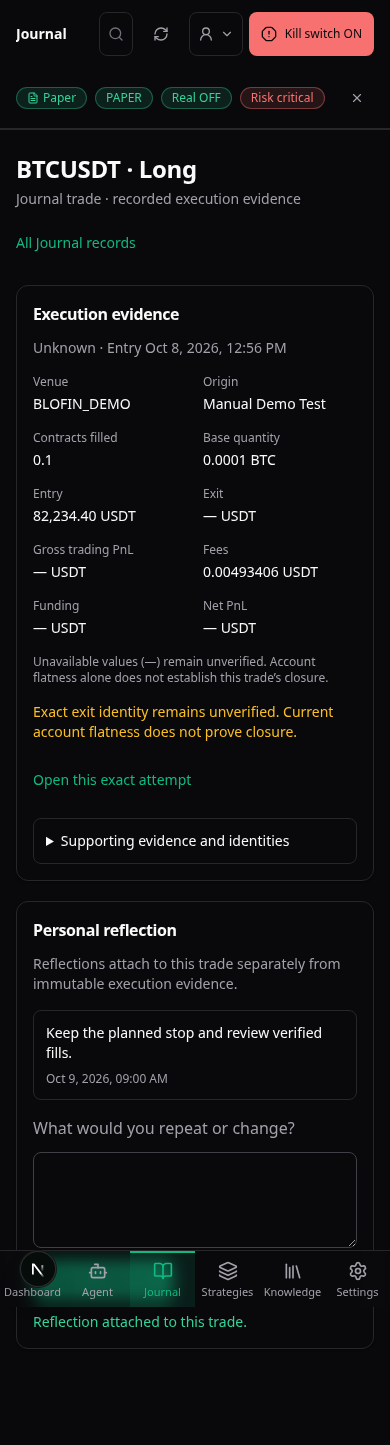
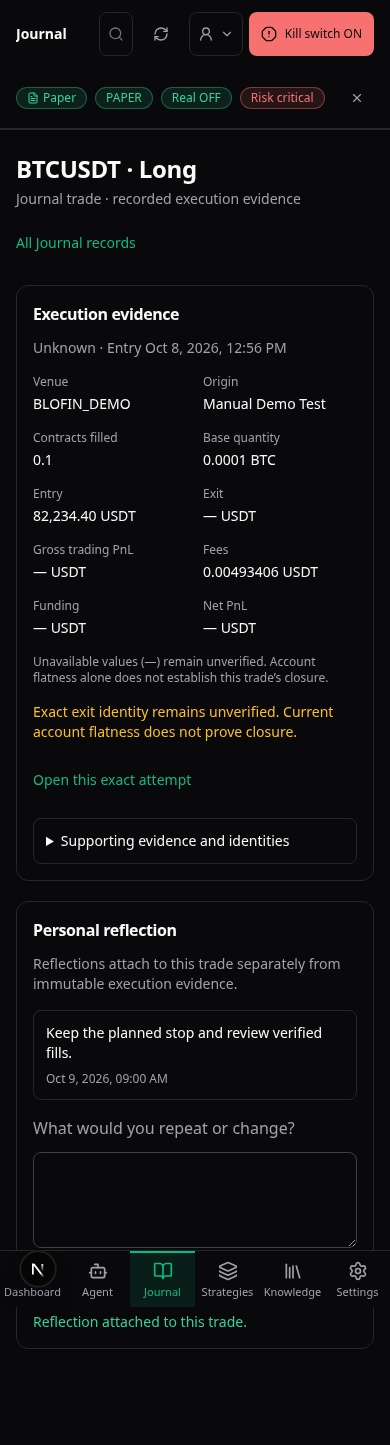
Align baseline gate fixtures and preserve tiny amounts and mobile highlighting

Changed region(s): [[0.0923, 0.8408, 0.4615, 0.9031]]

diff --git a/frontend/src/components/layout/MobileBottomNavigation.tsx b/frontend/src/components/layout/MobileBottomNavigation.tsx
@@ -18,7 +18,7 @@ export function MobileBottomNavigation() {
       aria-label="Primary mobile"
       data-testid="mobile-bottom-navigation"
       className={cn(
-        "fixed inset-x-0 bottom-0 z-50 border-t border-border-subtle bg-surface-0/95 backdrop-blur",
+        "fixed inset-x-0 bottom-0 z-50 border-t border-border-subtle bg-surface-0",
         "pb-[env(safe-area-inset-bottom,0px)] lg:hidden",
       )}
     >

diff --git a/backend/tests/test_release_wave002_migrations.py b/backend/tests/test_release_wave002_migrations.py
@@ -34,7 +34,10 @@ def test_accepted_branch_upgrade_merge_downgrade_reupgrade(source_head: str) -> 
                 )
         command.upgrade(config, "head")
         with engine.connect() as conn:
-            assert conn.scalar(text("SELECT version_num FROM alembic_version")) == "a6manualdemo001"
+            assert (
+                conn.scalar(text("SELECT version_num FROM alembic_version"))
+                == "a7manualrecovery001"
+            )
             assert "public_market_observations" in inspect(conn).get_table_names()
             assert "telegram_policy" in {
                 column["name"]
@@ -68,6 +71,9 @@ def test_accepted_branch_upgrade_merge_downgrade_reupgrade(source_head: str) -> 
             }
         command.upgrade(config, "head")
         with engine.connect() as conn:
-            assert conn.scalar(text("SELECT version_num FROM alembic_version")) == "a6manualdemo001"
+            assert (
+                conn.scalar(text("SELECT version_num FROM alembic_version"))
+                == "a7manualrecovery001"
+            )
     finally:
         engine.dispose()

diff --git a/backend/tests/test_phase2_4_alembic_postgres.py b/backend/tests/test_phase2_4_alembic_postgres.py
@@ -41,7 +41,7 @@ WATCHER_TENANT_WATCHLIST = "b6f2d9a10e73"
 STRATEGY_BRAIN = "a1brain001"
 TELEGRAM_POLICY_V2 = "a2tgpolicy002"
 RELEASE_WAVE002 = "a3release002"
-CURRENT_HEAD = "a6manualdemo001"
+CURRENT_HEAD = "a7manualrecovery001"
 
 _NEW_TABLES = (
     "watcher_worker_leases",
@@ -195,7 +195,8 @@ def test_alembic_single_head() -> None:
     assert script.get_heads() == [CURRENT_HEAD]
     head = script.get_revision(CURRENT_HEAD)
     assert head is not None
-    assert head.down_revision == "a5demolifecycle001"
+    assert head.down_revision == "a6manualdemo001"
+    assert script.get_revision("a6manualdemo001").down_revision == "a5demolifecycle001"
     assert script.get_revision("a5demolifecycle001").down_revision == "a4knowledge001"
     assert script.get_revision("a4knowledge001").down_revision == RELEASE_WAVE002
     merge = script.get_revision(RELEASE_WAVE002)

diff --git a/backend/tests/test_knowledge_file_migration.py b/backend/tests/test_knowledge_file_migration.py
@@ -19,7 +19,8 @@ def test_knowledge_metadata_revision_precedes_the_single_migration_head():
     config = Config(str(root / "alembic.ini"))
     config.set_main_option("script_location", str(root / "src/app/db/migrations"))
     script = ScriptDirectory.from_config(config)
-    assert script.get_heads() == ["a6manualdemo001"]
+    assert script.get_heads() == ["a7manualrecovery001"]
+    assert script.get_revision("a7manualrecovery001").down_revision == "a6manualdemo001"
     assert script.get_revision("a6manualdemo001").down_revision == "a5demolifecycle001"
     assert script.get_revision("a5demolifecycle001").down_revision == "a4knowledge001"
     assert script.get_revision("a4knowledge001").down_revision == "a3release002"

diff --git a/backend/tests/test_demo_preflight_diagnostics.py b/backend/tests/test_demo_preflight_diagnostics.py
@@ -91,7 +91,7 @@ def test_every_snapshot_read_reports_its_failing_stage_without_secret_text(stage
         else "venue_request_rejected",
         "error_type": "ExchangeAuthError" if status == 403 else "ExchangeRequestError",
         "http_status": status,
-        "venue_error_code": "51000" if status == 200 else str(status),
+        "venue_error_code": "51000",
     }
     assert reads[-1] == path
     assert len(reads) == [p for _, p in STAGES].index(path) + 1

diff --git a/backend/src/app/interactive_agent/manual_demo_evidence.py b/backend/src/app/interactive_agent/manual_demo_evidence.py
@@ -461,5 +461,6 @@ def _money(value: Decimal | None) -> str:
     if value is None:
         return "unverified"
     if value and abs(value) < Decimal("1"):
-        return readable_number(value)
+        # Preserve a meaningful nonzero native fee/PnL even below eight decimals.
+        return readable_number(value, places=max(8, min(20, 2 - value.adjusted())))
     return format(value, ",.2f")

diff --git a/backend/tests/test_phase8_learning_persistence.py b/backend/tests/test_phase8_learning_persistence.py
@@ -63,7 +63,7 @@ PACKAGE_ROOT = Path(__file__).resolve().parents[1] / "src/app/learning_attributi
 PERSISTENCE_MODULE = (
     Path(__file__).resolve().parents[1] / "src/app/persistence/attribution_postgres.py"
 )
-HEAD = "a6manualdemo001"
+HEAD = "a7manualrecovery001"
 WATCHER_TENANT_WATCHLIST = "b6f2d9a10e73"
 PHASE8_REVISION = "d4f7a2c8e901"
 PREVIOUS_HEAD = "c9e2b4a1d078"

diff --git a/backend/tests/test_journal_trades_alembic_empty_tenant.py b/backend/tests/test_journal_trades_alembic_empty_tenant.py
@@ -28,7 +28,7 @@ from app.runtime.canonical import build_production_canonical_runtime
 from app.security.rate_limit import reset_rate_limiter
 from tests.support.postgres_persistence import POSTGRES_URL, requires_postgres
 
-CURRENT_HEAD = "a6manualdemo001"
+CURRENT_HEAD = "a7manualrecovery001"
 
 
 def _alembic_config() -> Config:

diff --git a/docs/blofin_reconciliation_presentation_repair.md b/docs/blofin_reconciliation_presentation_repair.md
@@ -90,6 +90,15 @@ executor; an explicitly opted-in existing font-response fixture permits local
 build validation without claiming real font delivery. Ordinary required PR checks
 are preserved. Only one final complete backend gate is run for this batch.
 
+The complete gate also exposes baseline test drift: a historical fixture patches
+a renamed execution risk function, preflight diagnostics expect HTTP status in
+place of the native error code, and several migration checks still expect the
+prior head. These fixtures are aligned with main's existing contracts while
+preserving the policy, redaction, no-write, ancestry and data-preservation checks.
+The cloud executor requires a writable `UV_CACHE_DIR` for script subprocesses.
+Its complete-run result and subsequent focused corrections are reported
+separately in the PR; a corrected focused run is not a clean complete gate.
+
 ## Authenticated acceptance after review and deployment
 
 No BloFin execution/read-only credentials or owner session are bound in this

diff --git a/.ai/TASKS.md b/.ai/TASKS.md
@@ -14,6 +14,8 @@ Legend — Priority: P0 (critical) … P3 (low). Status: TODO / IN_PROGRESS / DO
   native-account Dashboard and concise Agent/manual detail with collapsed evidence.
 - Validation: Focused lifecycle/Journal/account/Agent checks and desktop/mobile
   browser fixtures; one final full backend gate. Exact results recorded in PR.
+  Align stale baseline diagnostic/risk fixtures and migration-head assertions
+  without relaxing checks; report complete-gate failures separately from fixes.
 - Limits: No credentials bound for authenticated native acceptance. No new orders,
   cancellation, deployment, kill reset, unrelated hold release or migration.
 - Gate: Review/merge, verify deployed commit/head, refresh same original command,
